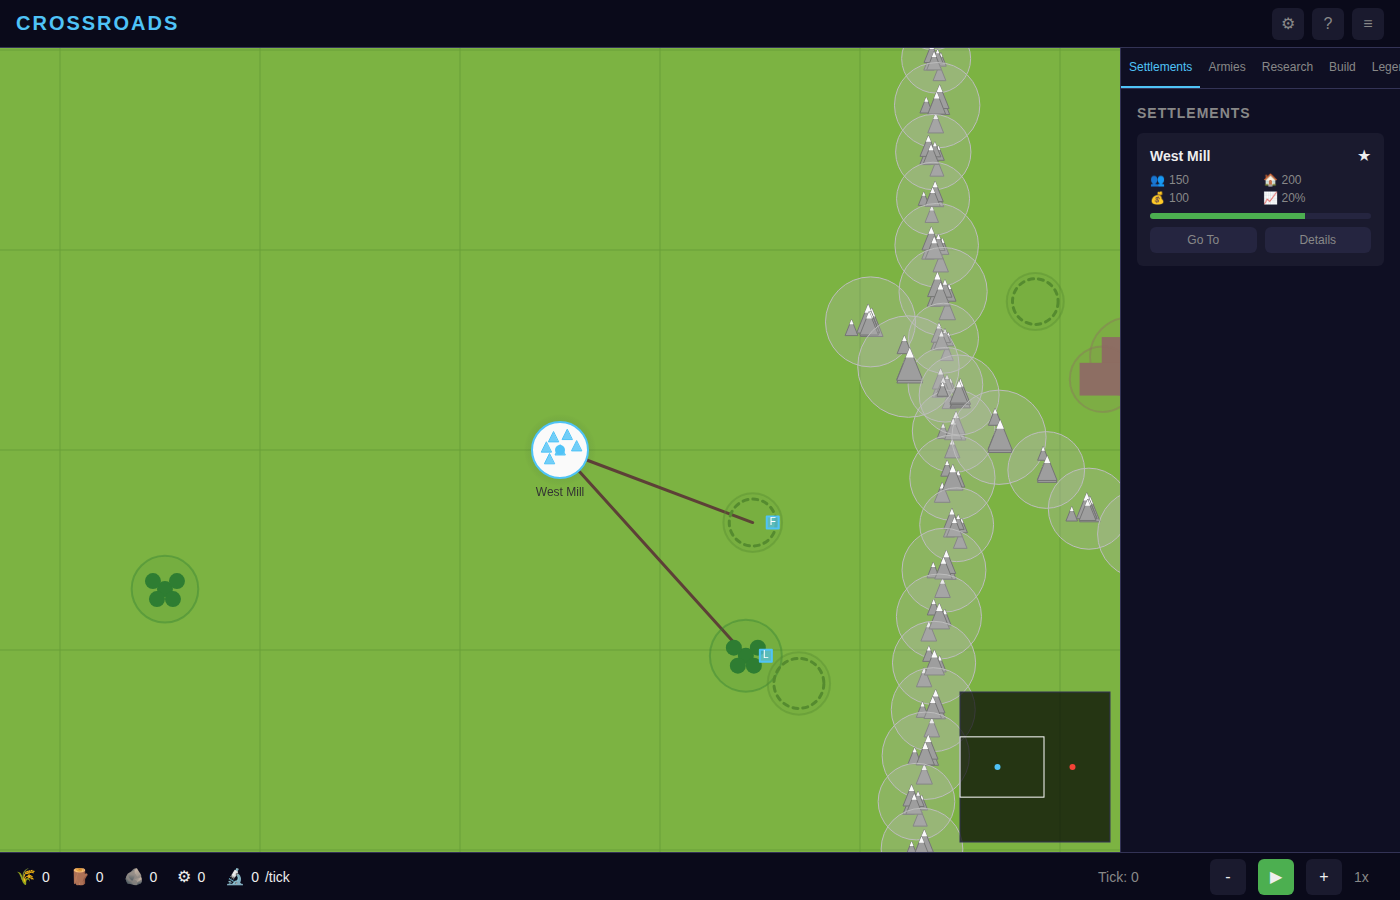
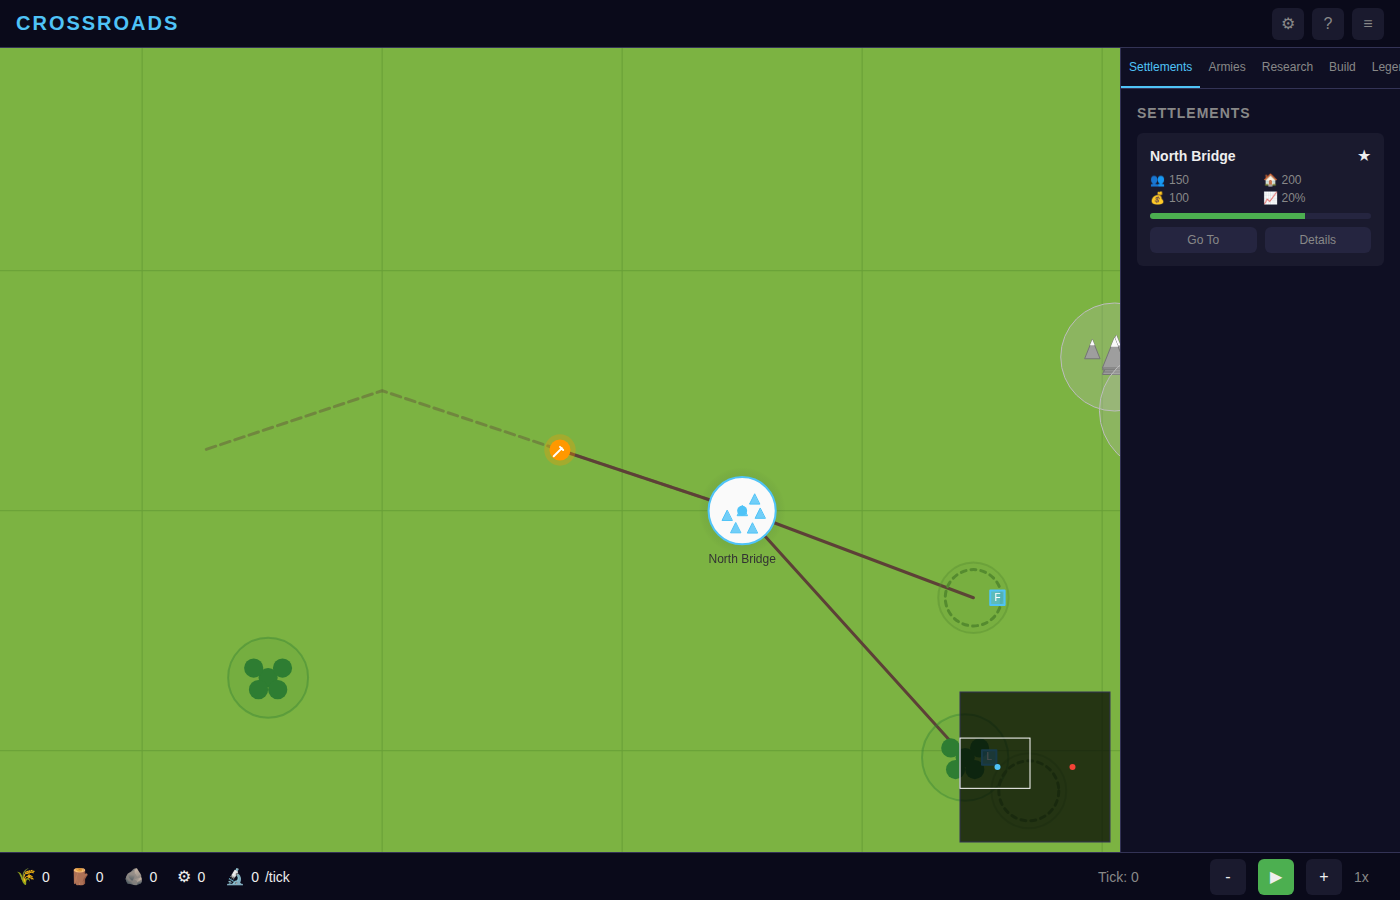
Update road construction test to show construction symbol clearly

diff --git a/tests/test_screenshots.py b/tests/test_screenshots.py
@@ -432,37 +432,35 @@ class TestGameScreenshots:
                     const playerSettlement = settlements.find(s => s.ownerId === game.playerId);
 
                     if (playerSettlement) {
-                        // Create a long road from the settlement to a distant point
-                        // This ensures the road takes multiple ticks to build
+                        // Create a long road heading left/up from the settlement
+                        // (away from the map center where mountains are)
                         const startX = playerSettlement.position.x;
                         const startY = playerSettlement.position.y;
 
-                        // Create waypoints for a road that goes 400 units away
+                        // Create waypoints for a road that goes 500 units to the left
                         const waypoints = [
                             new Vec2(startX, startY),
-                            new Vec2(startX + 150, startY - 100),
-                            new Vec2(startX + 300, startY - 50),
-                            new Vec2(startX + 400, startY - 150)
+                            new Vec2(startX - 150, startY - 50),
+                            new Vec2(startX - 300, startY - 100),
+                            new Vec2(startX - 450, startY - 50)
                         ];
 
                         // Build the road (starts with builtLength = 0)
-                        game.buildRoad(waypoints, 'dirt');
+                        const newRoad = game.buildRoad(waypoints, 'dirt');
 
-                        // Run a few ticks to partially build the road
-                        // With ROAD_CONSTRUCTION_SPEED of 20 units/tick,
-                        // running 5 ticks builds about 100 units of the ~500 unit road
-                        for (let i = 0; i < 5; i++) {
-                            game.processConstruction();
-                        }
+                        if (newRoad) {
+                            // Run a few ticks to partially build the road
+                            // With ROAD_CONSTRUCTION_SPEED of 20 units/tick,
+                            // running 8 ticks builds about 160 units of the ~550 unit road
+                            for (let i = 0; i < 8; i++) {
+                                game.processConstruction();
+                            }
 
-                        // Center camera on the construction point
-                        const roads = Object.values(game.state.roads);
-                        const newRoad = roads[roads.length - 1];
-                        if (newRoad && !newRoad.isComplete) {
+                            // Get the construction point and center camera on it
                             const constructionPoint = newRoad.getConstructionPoint();
                             if (constructionPoint) {
                                 camera.centerOn(constructionPoint.x, constructionPoint.y);
-                                camera.setZoom(1.5);
+                                camera.setZoom(1.2);
                             }
                         }
                     }
